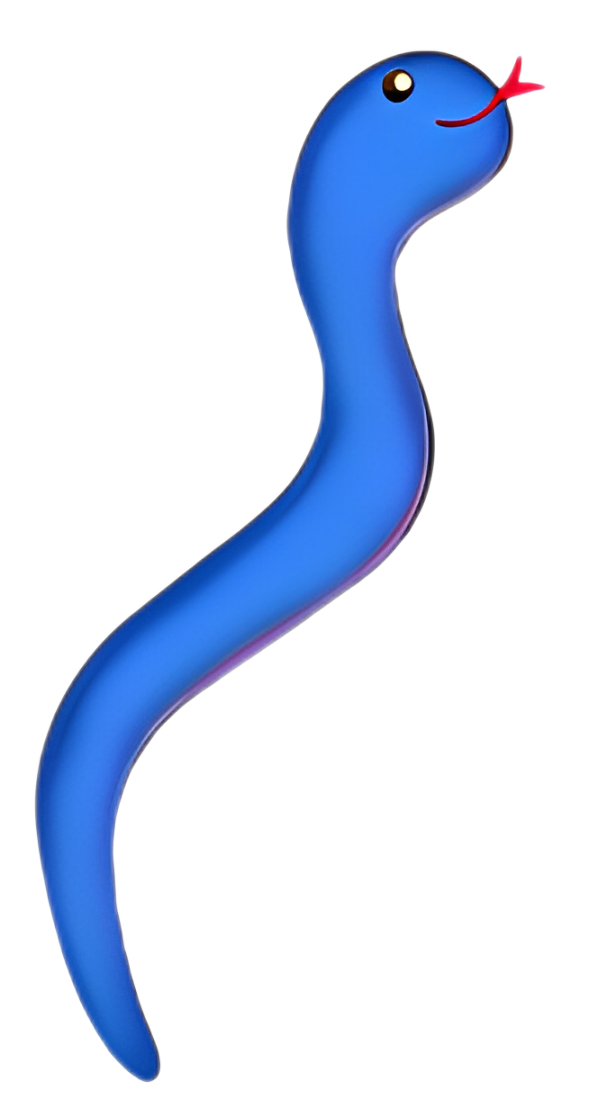
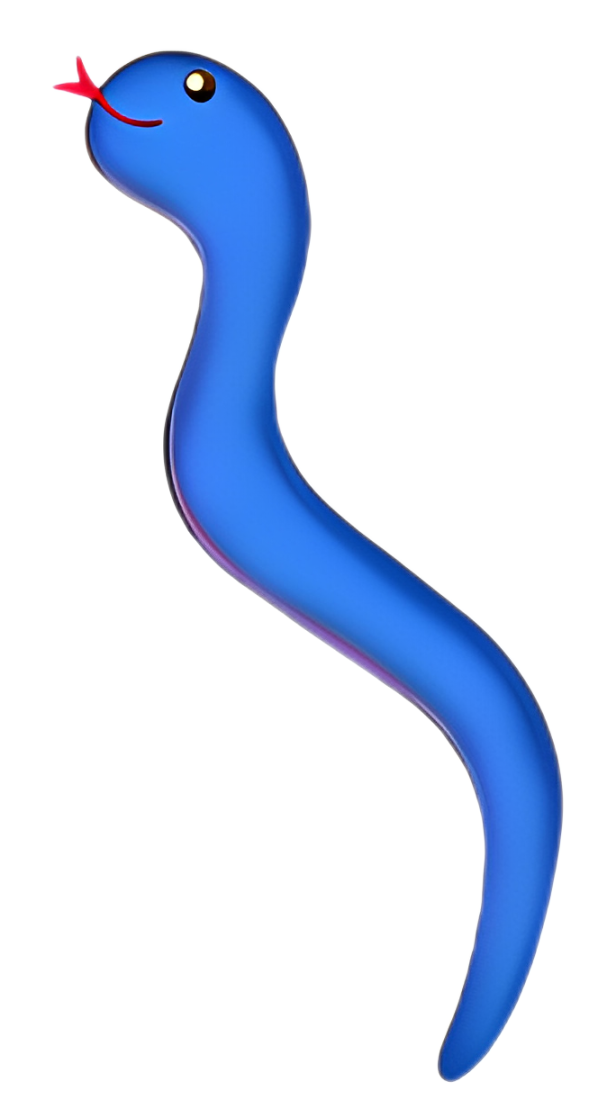
first commit

diff --git a/index.html b/index.html
@@ -230,6 +230,7 @@
                     <div class="gotiya" id="gotiya17"></div>
                 </div>
                 <div class="boxs">
+                    <img src="assets/Ladder.png" alt="" class="ladder2">
                     <p>16</p>
                     <div class="gotiya" id="gotiya16"></div>
                 </div>
@@ -258,6 +259,7 @@
                     <div class="gotiya" id="gotiya21"></div>
                 </div>
                 <div class="boxs">
+                    <img class="snake2" src="assets/snake2.png" alt="">
                     <p>22</p>
                     <div class="gotiya" id="gotiya22"></div>
                 </div>
@@ -290,6 +292,7 @@
                     <div class="gotiya" id="gotiya29"></div>
                 </div>
                 <div class="boxs">
+                    <img src="assets/snake1.png" alt="" class="snake4">
                     <p>30</p>
                     <div class="gotiya" id="gotiya30"></div>
                 </div>
@@ -298,14 +301,17 @@
                     <div class="gotiya" id="gotiya40"></div>
                 </div>
                 <div class="boxs">
+                    <img src="assets/Ladder.png" alt="" class="ladder1">
                     <p>39</p>
                     <div class="gotiya" id="gotiya39"></div>
                 </div>
                 <div class="boxs">
+                    <!-- <img class="snake1" src="assets/snake1.png" alt=""> -->
                     <p>38</p>
                     <div class="gotiya" id="gotiya38"></div>
                 </div>
                 <div class="boxs">
+                    <img class="snake1" src="assets/snake1.png" alt="">
                     <p>37</p>
                     <div class="gotiya" id="gotiya37"></div>
                 </div>
@@ -330,6 +336,7 @@
                     <div class="gotiya" id="gotiya32"></div>
                 </div>
                 <div class="boxs">
+                    <img src="assets/Ladder.png" alt="" class="ladder1">
                     <p>31</p>
                     <div class="gotiya" id="gotiya31"></div>
                 </div>
@@ -350,6 +357,7 @@
                     <div class="gotiya" id="gotiya44"></div>
                 </div>
                 <div class="boxs">
+                    <img src="assets/Ladder.png" alt="" class="ladder2">
                     <p>45</p>
                     <div class="gotiya" id="gotiya45"></div>
                 </div>
@@ -365,7 +373,7 @@
                     <p>48</p>
                     <div class="gotiya" id="gotiya48"></div>
                 </div>
-                <div class="boxs box49">
+                <div class="boxs">
                     <img class="snake3" src="assets/snake3.png" alt="">
                     <p>49</p>
                     <div class="gotiya" id="gotiya49"></div>

diff --git a/style.css b/style.css
@@ -507,6 +507,28 @@ p {
     align-items: center;
 }
 
+.snake1{
+    width: 7vw;
+    height: 5vw;
+    position: fixed;
+    z-index: 3;
+    top: 3vw;
+    right: -1.5vw;
+    transform: rotate(60deg);
+    -webkit-user-drag: none;
+}
+
+.snake2{
+    width: 8vw;
+    height: 15vw;
+    position: fixed;
+    z-index: 3;
+    top: 1vw;
+    left: 2vw;
+    transform: rotate(350deg);
+    -webkit-user-drag: none;
+}
+
 .snake3{
     width: 20vw;
     height: 22vw;
@@ -516,4 +538,41 @@ p {
     position: fixed;
     z-index: 3;
     -webkit-user-drag: none;
+}
+
+.snake4{
+    width: 7vw;
+    height: 5vw;
+    right: 0vw;
+    top: 2vw;
+    position: fixed;
+    z-index: 3;
+    -webkit-user-drag: none;
+    transform: scaleX(-1) rotate(63deg);
+}
+
+.ladder1{
+    width: 3vw;
+    height: 9vw;
+    position: fixed;
+    top: 1vw;
+    right: 4vw;
+    transform: rotate(43deg);
+    -webkit-user-drag: none;
+}
+
+.ladder2{
+    width: 3vw;
+    height: 9vw;
+    position: fixed;
+    top: 1vw;
+    left: 4vw;
+    transform: rotate(320deg);
+    -webkit-user-drag: none;
+}
+
+#binn{
+    position: relative;
+    /* background-color: #002BFF; */
+    /* z-index: 4; */
 }

diff --git a/script.js b/script.js
@@ -195,6 +195,7 @@ rollbtn1.addEventListener("click", function () {
             console.log(newnum1);
             console.log(boxes[newnum1]);
             boxes[dany1].appendChild(newele1)
+            console.log(dany1)
         }
         previousEle1 = newele1
         setTimeout(() => {
